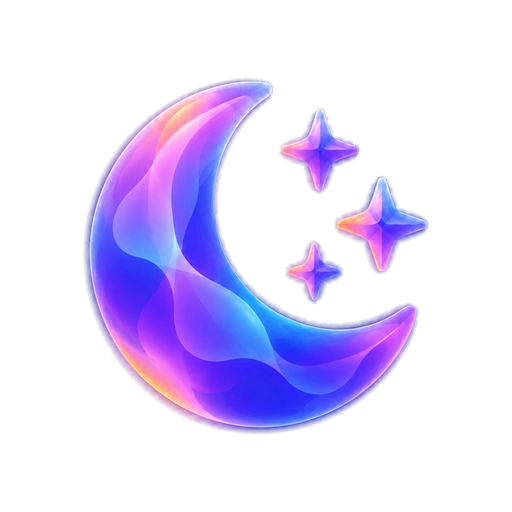
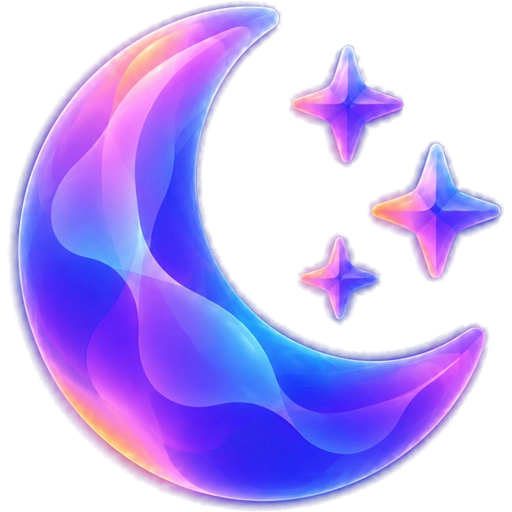
fix: trim the moon's empty frame so its opacity actually shows
Raising the moon to 80% changed little because the image was mostly
empty: the crescent filled 68% of the frame and only 22% of its pixels
were opaque, against 80% and 43% for the meditation piece beside the
heading. At 100px the artwork was really 68px of thin filigree, so no
opacity was going to make it read.

The import script can now crop a piece to its drawn area and re-centre
it on a square, which makes the CSS width mean the artwork's width. The
moon fills 97% of its frame at 46% opaque, matching what it is being
compared against. Only the moon is trimmed, so nothing else shifts.

diff --git a/scripts/import_illustrations.py b/scripts/import_illustrations.py
@@ -41,7 +41,7 @@ PLAN = [
     ("icon-only/07-avocado-icon.png", "speck-avocado.webp", 96),
     # The moon is drawn small but its filigree needs the detail, so it is
     # exported far above its display size and at a higher quality.
-    ("icon-only/12-moon-stars-icon.png", "speck-moon.webp", 512, 96),
+    ("icon-only/12-moon-stars-icon.png", "speck-moon.webp", 512, 96, True),
     ("icon-only/09-water-glass-icon.png", "speck-water.webp", 224),
     ("icon-only/10-heart-icon.png", "speck-heart.webp", 256),
     ("icon-only/11-privacy-lock-icon.png", "speck-lock.webp", 224),
@@ -56,7 +56,19 @@ def main():
     for entry in PLAN:
         source, name, size = entry[:3]
         quality = entry[3] if len(entry) > 3 else 88
+        trim = entry[4] if len(entry) > 4 else False
         image = Image.open(SRC / source).convert("RGBA")
+        if trim:
+            # Some pieces are drawn small inside a large transparent frame, so
+            # the rendered size overstates how much of them you actually see.
+            # Cropping to the drawn area and re-centring makes the CSS width
+            # mean the artwork's width. Squared off so width == height holds.
+            box = image.getchannel("A").getbbox()
+            image = image.crop(box)
+            side = max(image.size)
+            square = Image.new("RGBA", (side, side), (0, 0, 0, 0))
+            square.paste(image, ((side - image.width) // 2, (side - image.height) // 2))
+            image = square
         image = image.resize((size, size), Image.LANCZOS)
         target = OUT / name
         image.save(target, "WEBP", quality=quality, method=6)
